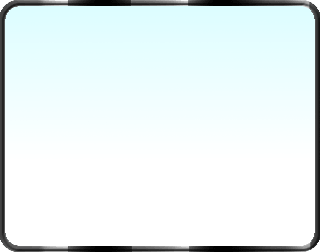
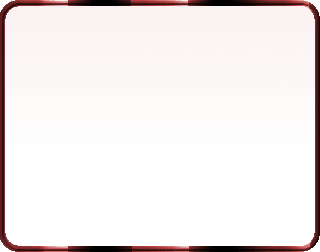
Added better shield display.
Added better shield display.
Fixed enemies to shoot back.
Changed color of radar display.

TODO: Add Mothership.
TODO: Add powerups
TODO: Add next level.
TODO: Add hit testing for enemy projectiles.

Changed region(s): [[0.0, 0.0, 1.0, 1.0], [0.4062, 0.9722, 0.625, 1.0]]

diff --git a/spacedefense/js/states.js b/spacedefense/js/states.js
@@ -344,6 +344,14 @@ GameScreen.prototype.loadResources = function()
 		var enemy = new Enemy(enemysprites[idx], this._game_world);
 		this._enemies.push(enemy);
 	}
+	
+	this._shield_bar = new Image();
+	this._lives_bar = new Image();
+	this._indicator = new Image();
+	
+	this._shield_bar.src = "images/shield_bar.png";
+	this._lives_bar.src = "images/lives_bar.png";
+	this._indicator.src = "images/indicator.png";
 }
 
 GameScreen.prototype.handleClick = function(vars)
@@ -436,10 +444,6 @@ GameScreen.prototype.render = function(_context)
 		this._stars[i].render(_context);
 	}
 
-
-	//_context.strokeStyle = "#00FF00";
-	//drawRect(_context, this._game_world.player_rect._x, this._game_world.player_rect._y, this._game_world.player_rect._w, this._game_world.player_rect._h);
-
 	for (var i = 0; i < this._enemies.length; i++)
 	{
 		this._enemies[i].render(_context);
@@ -458,21 +462,22 @@ GameScreen.prototype.render = function(_context)
 	var current_shield_w = (shield_bar_w / this._player._shield_max) * this._player._shield;
 	var current_lives_w = (shield_bar_w / this._player._shield_max) * this._player._lives;
 
-	_context.strokeStyle = "#00FF00";
-	_context.fillStyle = "#00FF00";
-	fillRect(_context, 0, shield_bar_y, current_shield_w, shield_bar_h);
-	drawRect(_context, 0, shield_bar_y, shield_bar_w, shield_bar_h);
-	this._font_r.renderTextScaledCentered(_context, "SHIELD", shield_bar_w, shield_bar_y + 10, 0.5);
+	_context.drawImage(this._shield_bar, 0, shield_bar_y, this._shield_bar.width, this._shield_bar.height);
+	for (var i = 0; i < this._player._shield; i++)
+		_context.drawImage(this._indicator, 5 + (i * (this._indicator.width + 0)), shield_bar_y + 4, this._indicator.width, this._indicator.height);
+	
+	this._font_r.renderTextScaledCentered(_context, "SHIELD", shield_bar_w, shield_bar_y + 2, 0.75);
 
-	_context.strokeStyle = "#0000FF";
-	_context.fillStyle = "#0000FF";
-	fillRect(_context, 0, shield_bar_y + shield_bar_h, current_lives_w, shield_bar_h);
-	drawRect(_context, 0, shield_bar_y + shield_bar_h, shield_bar_w, shield_bar_h);
-	this._font_r.renderTextScaledCentered(_context, "LIVES", shield_bar_w, shield_bar_y + shield_bar_h + 10, 0.5);
+	_context.drawImage(this._lives_bar, 0, shield_bar_y + shield_bar_h, this._lives_bar.width, this._lives_bar.height);
+	for (var i = 0; i < this._player._lives; i++)
+		_context.drawImage(this._indicator, 5 + (i * (this._indicator.width + 0)), shield_bar_y + shield_bar_h + 4, this._indicator.width, this._indicator.height);
+	
+	this._font_r.renderTextScaledCentered(_context, "LIVES", shield_bar_w, shield_bar_y + shield_bar_h + 2, 0.75);
 	
 	this._font_r.renderTextScaled(_context, "SCORE:" + this._player._score, 0, shield_bar_y + (shield_bar_h * 2) + 10, 0.5);
 	this._font_r.renderTextScaled(_context, "ENEMIES:" + this._player._num_enemies, 0, shield_bar_y + (shield_bar_h * 3), 0.5);
 
+/*
 	if (_debug_mobile)
 	{	//now we render debug info.
 		_context.fillStyle = "#ff0000";
@@ -480,4 +485,5 @@ GameScreen.prototype.render = function(_context)
 		_context.fillText("Ship direction[" + this._player._current_dir + "] target[" + this._player._target_dir + "]", 10, 20);
 		_context.fillText("Browser[" + navigator.userAgent + "]", 10, 40);
 	}
+*/
 }

diff --git a/spacedefense/js/projectiles.js b/spacedefense/js/projectiles.js
@@ -71,6 +71,49 @@ ProjectileManager.prototype.update = function(direction)
 		this._projectile_timer = 6;
 	}
 }
+ProjectileManager.prototype.setOculusLocation = function(x, y, w, h)
+{
+	this._x = x + (w / 2);
+	this._y = y + (h / 2);
+	this._oculus[0] = x;
+	this._oculus[1] = y + this._radius;
+}
+ProjectileManager.prototype.updateToPoint = function(direction, x, y, w, h)
+{
+	this.setOculusLocation(x, y, w, h);
+	this._projectile_timer--;
+	if (this._projectile_timer == 0)
+	{	//time to fire a new projectile
+		for (var i = 0; i < this._num_projectiles; i += 6)
+		{
+			if (this._projectiles[i + 3] != 1)	//we have found a dead projectile, fire it.
+			{
+				this._projectiles[i + 0] = this._x - (this._pw / 2);
+				this._projectiles[i + 1] = this._y - (this._ph / 2);
+				this._projectiles[i + 2] = direction;
+				this._projectiles[i + 3] = 1;
+
+				var radians = direction * TO_RADIANS;
+				var ct = Math.cos(radians);
+				var st = Math.sin(radians);
+
+				var _rotated_X = (ct * (this._oculus[0] - this._x) - st * (this._oculus[1] - this._y)) + this._x;//(cos * (x - cx)) - (sin * (y - cy)) 
+				var _rotated_Y = (st * (this._oculus[0] - this._x) + ct * (this._oculus[1] - this._y)) + this._y;//(sin * (x - cx)) + (cos * (y - cy))
+				
+				var P = new Vector(this._x, this._y);
+				var B = new Vector(_rotated_X, _rotated_Y);
+				var PB = P.subtract(B);
+				var _delta = PB.divide(this._projectile_speed);
+				
+				this._projectiles[i + 4] = _delta._x;
+				this._projectiles[i + 5] = _delta._y;
+
+				break;
+			}
+		}
+		this._projectile_timer = 6;
+	}
+}
 ProjectileManager.prototype.render = function(_context)
 {
 	for (var i = 0; i < this._num_projectiles; i += 6)
@@ -93,7 +136,32 @@ ProjectileManager.prototype.render = function(_context)
 		}
 	}
 }
+ProjectileManager.prototype.renderWithinViewPort = function(_context)
+{
+	var hr = new HitRect(0, 0, 0, 0);
+	for (var i = 0; i < this._num_projectiles; i += 6)
+	{
+		if (this._projectiles[i + 3] != 0)	//only update if it's alive
+		{	//now move the projectile along its path.
+			var draw = 1;
+			hr.set(this._x - (this._view_w / 2), this._y - (this._view_h / 2), this._view_w, this._view_h);
+			if (!hr.HitTest(this._projectiles[i + 0], this._projectiles[i + 1]))
+				draw = 0;
+			//if ((this._projectiles[i + 0] < 0) || (this._projectiles[i + 0] > this._view_w))
+			//	draw = 0;
+			//if ((this._projectiles[i + 1] < 0) || (this._projectiles[i + 1] > this._view_h))
+			//	draw = 0;
 
+			if (draw)
+				_context.drawImage(this._sprite, this._projectiles[i + 0], this._projectiles[i + 1], this._pw, this._ph);
+			else
+				this._projectiles[i + 3] = 0;
+
+			this._projectiles[i + 0] += this._projectiles[i + 4];;
+			this._projectiles[i + 1] += this._projectiles[i + 5];
+		}
+	}
+}
 ProjectileManager.prototype.HitTestEnemies = function(_world, enemies)
 {
 	var ret = [];

diff --git a/spacedefense/js/enemy.js b/spacedefense/js/enemy.js
@@ -17,21 +17,34 @@ Enemy = function(name, world)
 	
 	this._explosion = new Explosion();
 	this._exploding = 0;
+	
+	this._projectile_man = new ProjectileManager('laser_2.png', 32);
+	this._projectile_man.setOculus(x, y, this._world.getViewPort()._port_dimensions._x, this._world.getViewPort()._port_dimensions._y);
+	this._projectile_angle = 0;
 }
 
 Enemy.prototype.updatePointDims = function()
 {
 	var w = this._sprite.width;
 	var h = this._sprite.height;
-	
+
 	this._world.setPointDims(this._idx, w, h);	//this is used in the point-in-view calculation
 }
 
 Enemy.prototype.render = function(_context)
 {
-	if (this._world.pointInViewport(this._idx))
+	if (!this._exploding)
 	{
 		var vp = this._world.getViewPoint(this._idx);
+		this._projectile_man.updateToPoint(this._projectile_angle, vp[0], vp[1], this._sprite.width, this._sprite.height);	//figure out difference in angle between us and player here
+		this._projectile_angle++;
+		if (this._projectile_angle > 360)
+			this._projectile_angle = this._projectile_angle % 360;
+	}
+	if (this._world.pointInViewport(this._idx))
+	{
+		this._projectile_man.renderWithinViewPort(_context);
+
 		if (this._explosion.visible())
 		{
 			this._explosion.render(_context);

diff --git a/spacedefense/js/world.js b/spacedefense/js/world.js
@@ -81,7 +81,10 @@ GameWorld.prototype.getDimensions = function()
 {
 	return this._world_dimensions;
 }
-
+GameWorld.prototype.getViewPort = function()
+{
+	return this._viewport;
+}
 GameWorld.prototype.handleResize = function(dims)
 {	//do nothing for now, we simply ignore the fact that the screen size changes
 	this._viewport._port_dimensions._x = dims[0];
